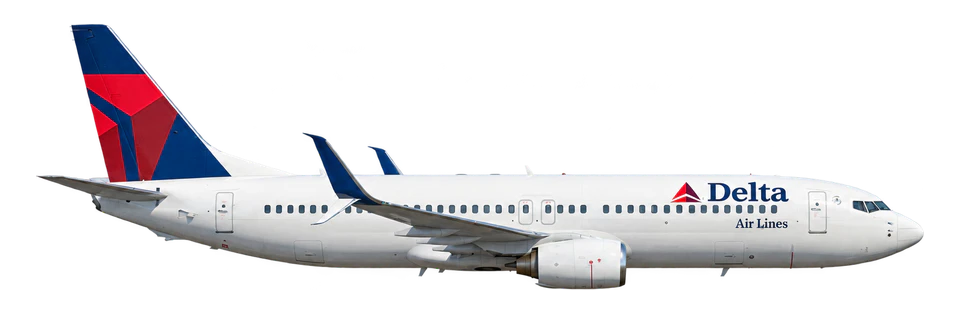
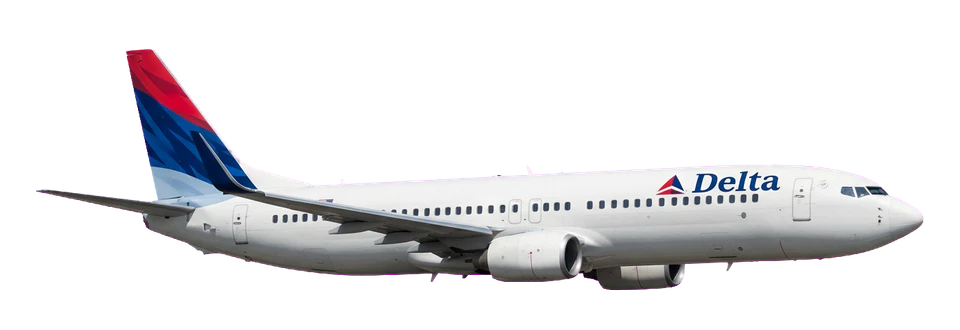
Regenerate PG-008 aircraft with chroma workflow

Changed region(s): [[0.0312, 0.0606, 0.9688, 0.8788], [0.8125, 0.4848, 0.8438, 0.5152], [0.625, 0.5152, 0.6562, 0.5455]]

diff --git a/test/plane-chroma-extractor.test.js b/test/plane-chroma-extractor.test.js
@@ -36,3 +36,18 @@ test('PG-010 global chroma extraction removes enclosed key pixels when the subje
   assert.ok(alpha(20, 12) < 128);
   assert.equal(alpha(10, 12), 255);
 });
+
+test('PG-008 chroma extraction can zero small generated key-color variation without changing the default cutoff', async (t) => {
+  const directory = await mkdtemp(join(process.cwd(), '.generated', 'chroma-test-'));
+  t.after(() => rm(directory, { recursive: true, force: true }));
+  const input = join(directory, 'input.png');
+  const output = join(directory, 'output.png');
+  await sharp({ create: { width: 40, height: 24, channels: 3, background: '#fc12f9' } })
+    .composite([{ input: Buffer.from('<svg width="40" height="24" xmlns="http://www.w3.org/2000/svg"><rect x="8" y="6" width="24" height="12" rx="3" fill="white"/></svg>') }])
+    .png().toFile(input);
+  await extractPlaneChroma({ inputPath: input, outputPath: output, transparentDistance: 32 });
+  const { data, info } = await sharp(output).ensureAlpha().raw().toBuffer({ resolveWithObject: true });
+  const alpha = (x, y) => data[(y * info.width + x) * 4 + 3];
+  assert.equal(alpha(0, 0), 0);
+  assert.equal(alpha(20, 12), 255);
+});

diff --git a/design/plane-art/README.md b/design/plane-art/README.md
@@ -164,6 +164,14 @@ npm run plane-art:chroma -- --input <candidate.png> --output <transparent.png> -
 node scripts/process-plane-art.mjs --artwork-id <id> --direction <direction> --input <candidate.png> --source-metadata <metadata.json> --manual-repair <transparent.png> --proof <proof.png>
 ```
 
+PG-008 regeneration candidates use the same edge-connected method with
+`--transparent-distance 120`. Vertex returned visually solid magenta with a
+small generated color variation; the recorded cutoff makes those connected
+background pixels fully transparent before normalization. The default remains
+`8`, so this batch-specific extraction tolerance does not redefine PG-010 or
+PG-018 processing. Use a raised cutoff only when the protected subject palette
+contains no matching key-color pixels and record the value in provenance.
+
 The default `--scope connected` preserves enclosed subject pixels that match the
 key color. A narrowly scoped batch whose protected subject palette explicitly
 excludes the key color may use `--scope global` to remove enclosed background
@@ -393,7 +401,10 @@ and `shape-guides/inventory.json` records ownership, permission, source, and
 availability. No third-party aircraft reference was introduced.
 
 Every final master was independently generated by the pinned
-`gemini-3.1-flash-image` Vertex workflow. The initial
+`gemini-3.1-flash-image` Vertex workflow. On 2026-10-31 all 14 original
+white-matte masters were replaced by independently generated magenta-chroma
+candidates using the scoped `pg008-chroma-magenta-1` exception and recorded
+120-distance extraction cutoff. The initial
 `dal-widebody:left` candidate was rejected because its tail livery did not match
 the approved right-side family; it was never promoted to production, and the
 authorized forced regeneration is the recorded final candidate. The processor's
